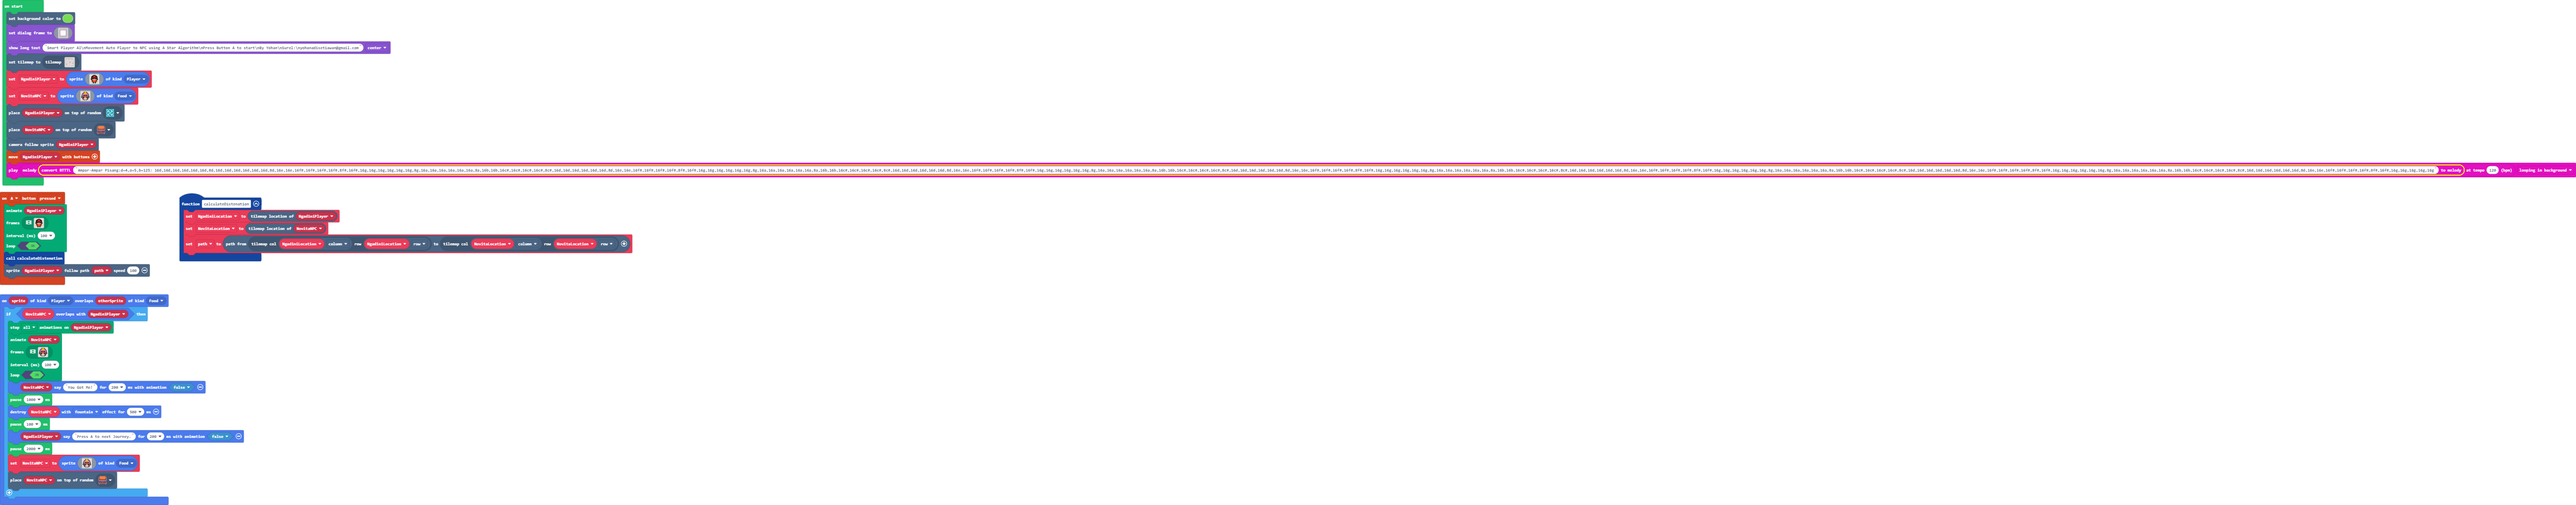
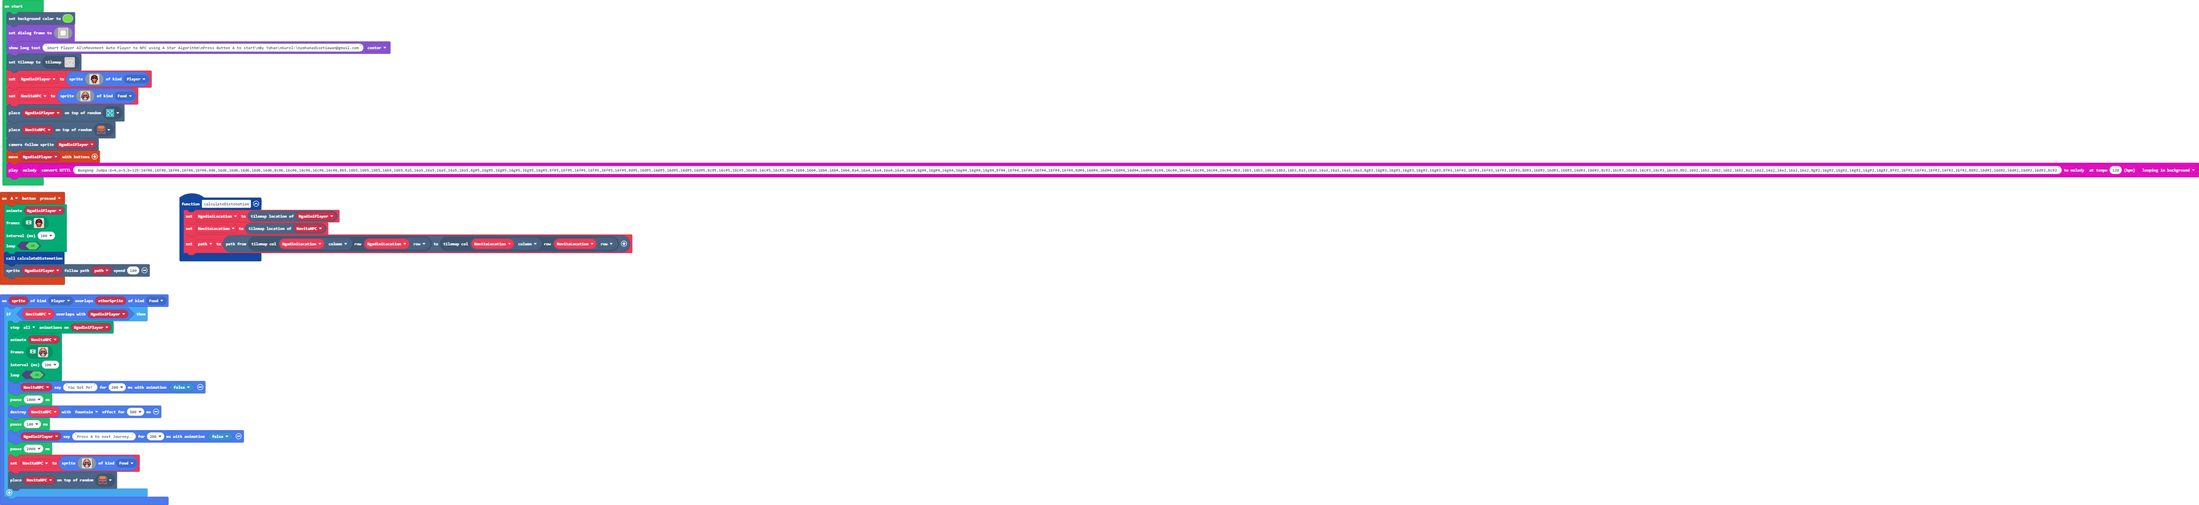
Song of Bunga Jumpa

Changed region(s): [[0.0, 0.0, 0.993, 0.5477], [0.0, 0.5781, 0.1241, 0.9736], [0.0621, 0.9736, 0.0931, 1.0]]

diff --git a/main.ts b/main.ts
@@ -55,4 +55,4 @@ tiles.placeOnRandomTile(NgadiniPlayer, sprites.dungeon.collectibleInsignia)
 tiles.placeOnRandomTile(NovitaNPC, sprites.dungeon.chestClosed)
 scene.cameraFollowSprite(NgadiniPlayer)
 controller.moveSprite(NgadiniPlayer)
-music.play(music.stringPlayable(music.convertRTTTLToMelody("Ampar-Ampar Pisang:d=4,o=5,b=125: 16d,16d,16d,16d,16d,16d,8d,16d,16d,16d,16d,16d,16d,8d,16e,16e,16f#,16f#,16f#,16f#,8f#,16f#,16g,16g,16g,16g,16g,16g,8g,16a,16a,16a,16a,16a,16a,8a,16b,16b,16c#,16c#,16c#,16c#,8c#,16d,16d,16d,16d,16d,16d,8d,16e,16e,16f#,16f#,16f#,16f#,8f#,16f#,16g,16g,16g,16g,16g,16g,8g,16a,16a,16a,16a,16a,16a,8a,16b,16b,16c#,16c#,16c#,16c#,8c#,16d,16d,16d,16d,16d,16d,8d,16e,16e,16f#,16f#,16f#,16f#,8f#,16f#,16g,16g,16g,16g,16g,16g,8g,16a,16a,16a,16a,16a,16a,8a,16b,16b,16c#,16c#,16c#,16c#,8c#,16d,16d,16d,16d,16d,16d,8d,16e,16e,16f#,16f#,16f#,16f#,8f#,16f#,16g,16g,16g,16g,16g,16g,8g,16a,16a,16a,16a,16a,16a,8a,16b,16b,16c#,16c#,16c#,16c#,8c#,16d,16d,16d,16d,16d,16d,8d,16e,16e,16f#,16f#,16f#,16f#,8f#,16f#,16g,16g,16g,16g,16g,16g,8g,16a,16a,16a,16a,16a,16a,8a,16b,16b,16c#,16c#,16c#,16c#,8c#,16d,16d,16d,16d,16d,16d,8d,16e,16e,16f#,16f#,16f#,16f#,8f#,16f#,16g,16g,16g,16g,16g,16g,8g,16a,16a,16a,16a,16a,16a,8a,16b,16b,16c#,16c#,16c#,16c#,8c#,16d,16d,16d,16d,16d,16d,8d,16e,16e,16f#,16f#,16f#,16f#,8f#,16f#,16g,16g,16g,16g,16g"), 120), music.PlaybackMode.LoopingInBackground)
+music.play(music.stringPlayable(music.convertRTTTLToMelody("Bungong Jumpa:d=4,o=5,b=125:16f#6,16f#6,16f#6,16f#6,16f#6,8d6,16d6,16d6,16d6,16d6,16d6,8c#6,16c#6,16c#6,16c#6,16c#6,8b5,16b5,16b5,16b5,16b5,16b5,8a5,16a5,16a5,16a5,16a5,16a5,8g#5,16g#5,16g#5,16g#5,16g#5,16g#5,8f#5,16f#5,16f#5,16f#5,16f#5,16f#5,8d#5,16d#5,16d#5,16d#5,16d#5,16d#5,8c#5,16c#5,16c#5,16c#5,16c#5,16c#5,8b4,16b4,16b4,16b4,16b4,16b4,8a4,16a4,16a4,16a4,16a4,16a4,8g#4,16g#4,16g#4,16g#4,16g#4,16g#4,8f#4,16f#4,16f#4,16f#4,16f#4,16f#4,8d#4,16d#4,16d#4,16d#4,16d#4,16d#4,8c#4,16c#4,16c#4,16c#4,16c#4,16c#4,8b3,16b3,16b3,16b3,16b3,16b3,8a3,16a3,16a3,16a3,16a3,16a3,8g#3,16g#3,16g#3,16g#3,16g#3,16g#3,8f#3,16f#3,16f#3,16f#3,16f#3,16f#3,8d#3,16d#3,16d#3,16d#3,16d#3,16d#3,8c#3,16c#3,16c#3,16c#3,16c#3,16c#3,8b2,16b2,16b2,16b2,16b2,16b2,8a2,16a2,16a2,16a2,16a2,16a2,8g#2,16g#2,16g#2,16g#2,16g#2,16g#2,8f#2,16f#2,16f#2,16f#2,16f#2,16f#2,8d#2,16d#2,16d#2,16d#2,16d#2,16d#2,8c#2"), 120), music.PlaybackMode.LoopingInBackground)

diff --git a/main.py b/main.py
@@ -61,6 +61,6 @@ tiles.place_on_random_tile(NgadiniPlayer, sprites.dungeon.collectible_insignia)
 tiles.place_on_random_tile(NovitaNPC, sprites.dungeon.chest_closed)
 scene.camera_follow_sprite(NgadiniPlayer)
 controller.move_sprite(NgadiniPlayer)
-music.play(music.string_playable(music.convert_rtttl_to_melody("Ampar-Ampar Pisang:d=4,o=5,b=125: 16d,16d,16d,16d,16d,16d,8d,16d,16d,16d,16d,16d,16d,8d,16e,16e,16f#,16f#,16f#,16f#,8f#,16f#,16g,16g,16g,16g,16g,16g,8g,16a,16a,16a,16a,16a,16a,8a,16b,16b,16c#,16c#,16c#,16c#,8c#,16d,16d,16d,16d,16d,16d,8d,16e,16e,16f#,16f#,16f#,16f#,8f#,16f#,16g,16g,16g,16g,16g,16g,8g,16a,16a,16a,16a,16a,16a,8a,16b,16b,16c#,16c#,16c#,16c#,8c#,16d,16d,16d,16d,16d,16d,8d,16e,16e,16f#,16f#,16f#,16f#,8f#,16f#,16g,16g,16g,16g,16g,16g,8g,16a,16a,16a,16a,16a,16a,8a,16b,16b,16c#,16c#,16c#,16c#,8c#,16d,16d,16d,16d,16d,16d,8d,16e,16e,16f#,16f#,16f#,16f#,8f#,16f#,16g,16g,16g,16g,16g,16g,8g,16a,16a,16a,16a,16a,16a,8a,16b,16b,16c#,16c#,16c#,16c#,8c#,16d,16d,16d,16d,16d,16d,8d,16e,16e,16f#,16f#,16f#,16f#,8f#,16f#,16g,16g,16g,16g,16g,16g,8g,16a,16a,16a,16a,16a,16a,8a,16b,16b,16c#,16c#,16c#,16c#,8c#,16d,16d,16d,16d,16d,16d,8d,16e,16e,16f#,16f#,16f#,16f#,8f#,16f#,16g,16g,16g,16g,16g,16g,8g,16a,16a,16a,16a,16a,16a,8a,16b,16b,16c#,16c#,16c#,16c#,8c#,16d,16d,16d,16d,16d,16d,8d,16e,16e,16f#,16f#,16f#,16f#,8f#,16f#,16g,16g,16g,16g,16g"),
+music.play(music.string_playable(music.convert_rtttl_to_melody("Bungong Jumpa:d=4,o=5,b=125:16f#6,16f#6,16f#6,16f#6,16f#6,8d6,16d6,16d6,16d6,16d6,16d6,8c#6,16c#6,16c#6,16c#6,16c#6,8b5,16b5,16b5,16b5,16b5,16b5,8a5,16a5,16a5,16a5,16a5,16a5,8g#5,16g#5,16g#5,16g#5,16g#5,16g#5,8f#5,16f#5,16f#5,16f#5,16f#5,16f#5,8d#5,16d#5,16d#5,16d#5,16d#5,16d#5,8c#5,16c#5,16c#5,16c#5,16c#5,16c#5,8b4,16b4,16b4,16b4,16b4,16b4,8a4,16a4,16a4,16a4,16a4,16a4,8g#4,16g#4,16g#4,16g#4,16g#4,16g#4,8f#4,16f#4,16f#4,16f#4,16f#4,16f#4,8d#4,16d#4,16d#4,16d#4,16d#4,16d#4,8c#4,16c#4,16c#4,16c#4,16c#4,16c#4,8b3,16b3,16b3,16b3,16b3,16b3,8a3,16a3,16a3,16a3,16a3,16a3,8g#3,16g#3,16g#3,16g#3,16g#3,16g#3,8f#3,16f#3,16f#3,16f#3,16f#3,16f#3,8d#3,16d#3,16d#3,16d#3,16d#3,16d#3,8c#3,16c#3,16c#3,16c#3,16c#3,16c#3,8b2,16b2,16b2,16b2,16b2,16b2,8a2,16a2,16a2,16a2,16a2,16a2,8g#2,16g#2,16g#2,16g#2,16g#2,16g#2,8f#2,16f#2,16f#2,16f#2,16f#2,16f#2,8d#2,16d#2,16d#2,16d#2,16d#2,16d#2,8c#2"),
         120),
     music.PlaybackMode.LOOPING_IN_BACKGROUND)
